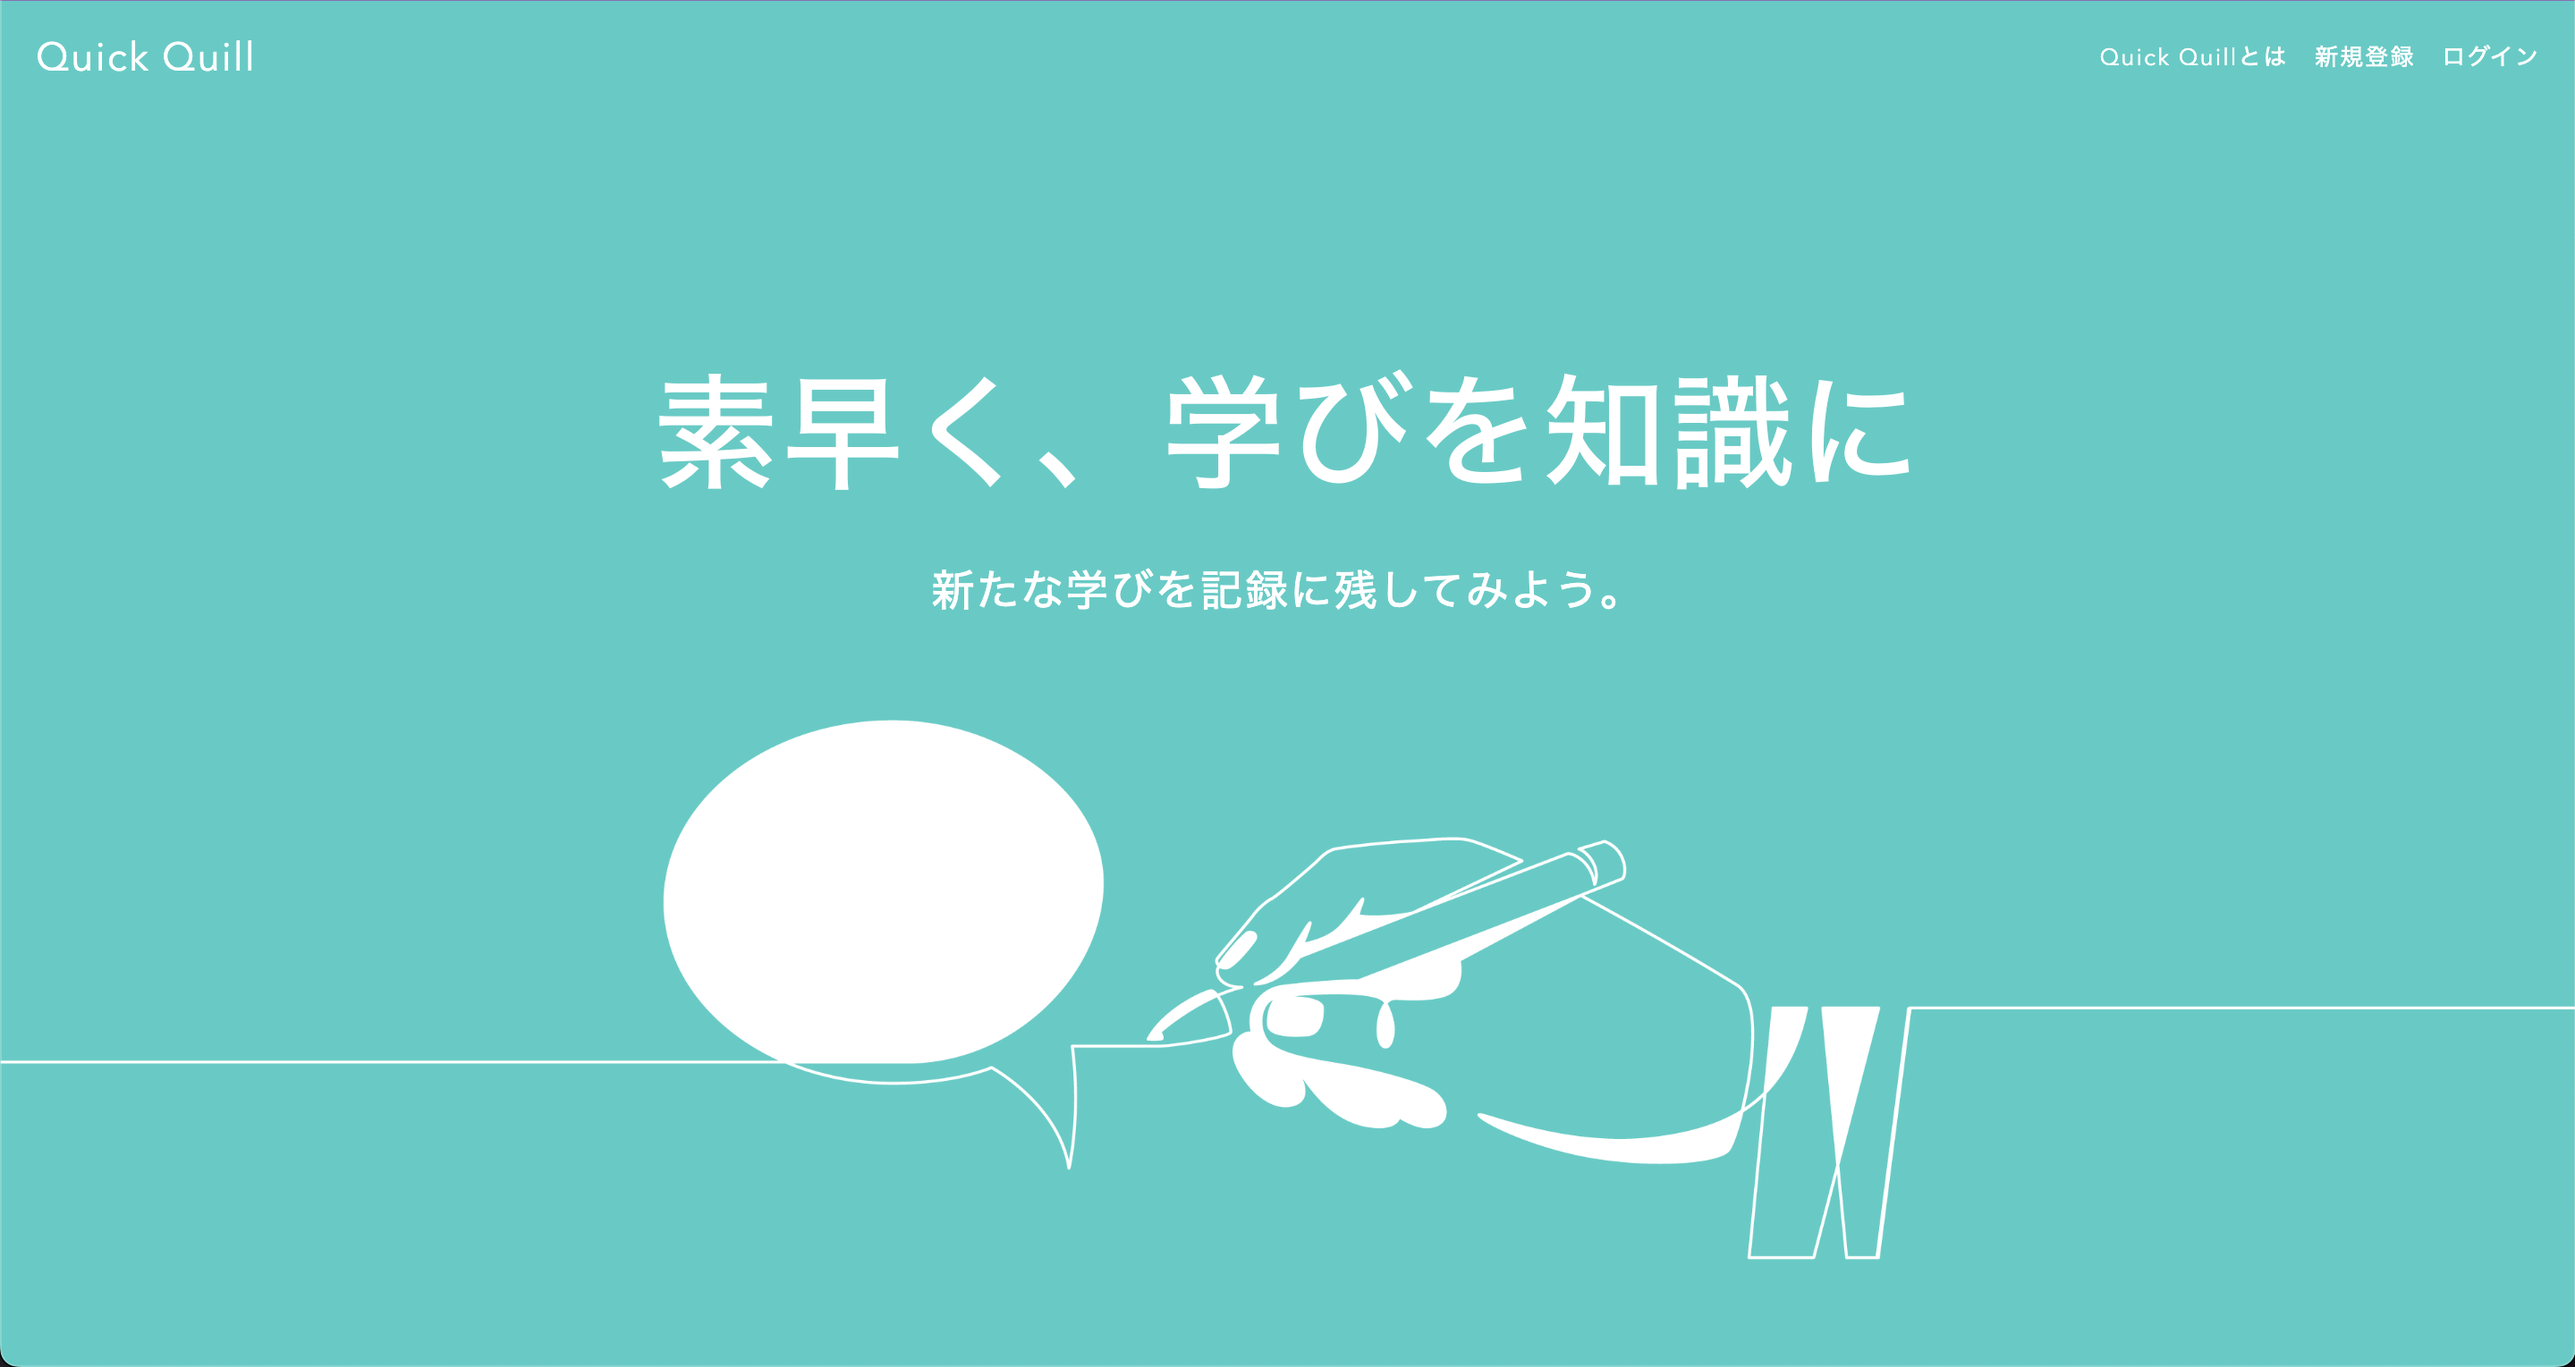
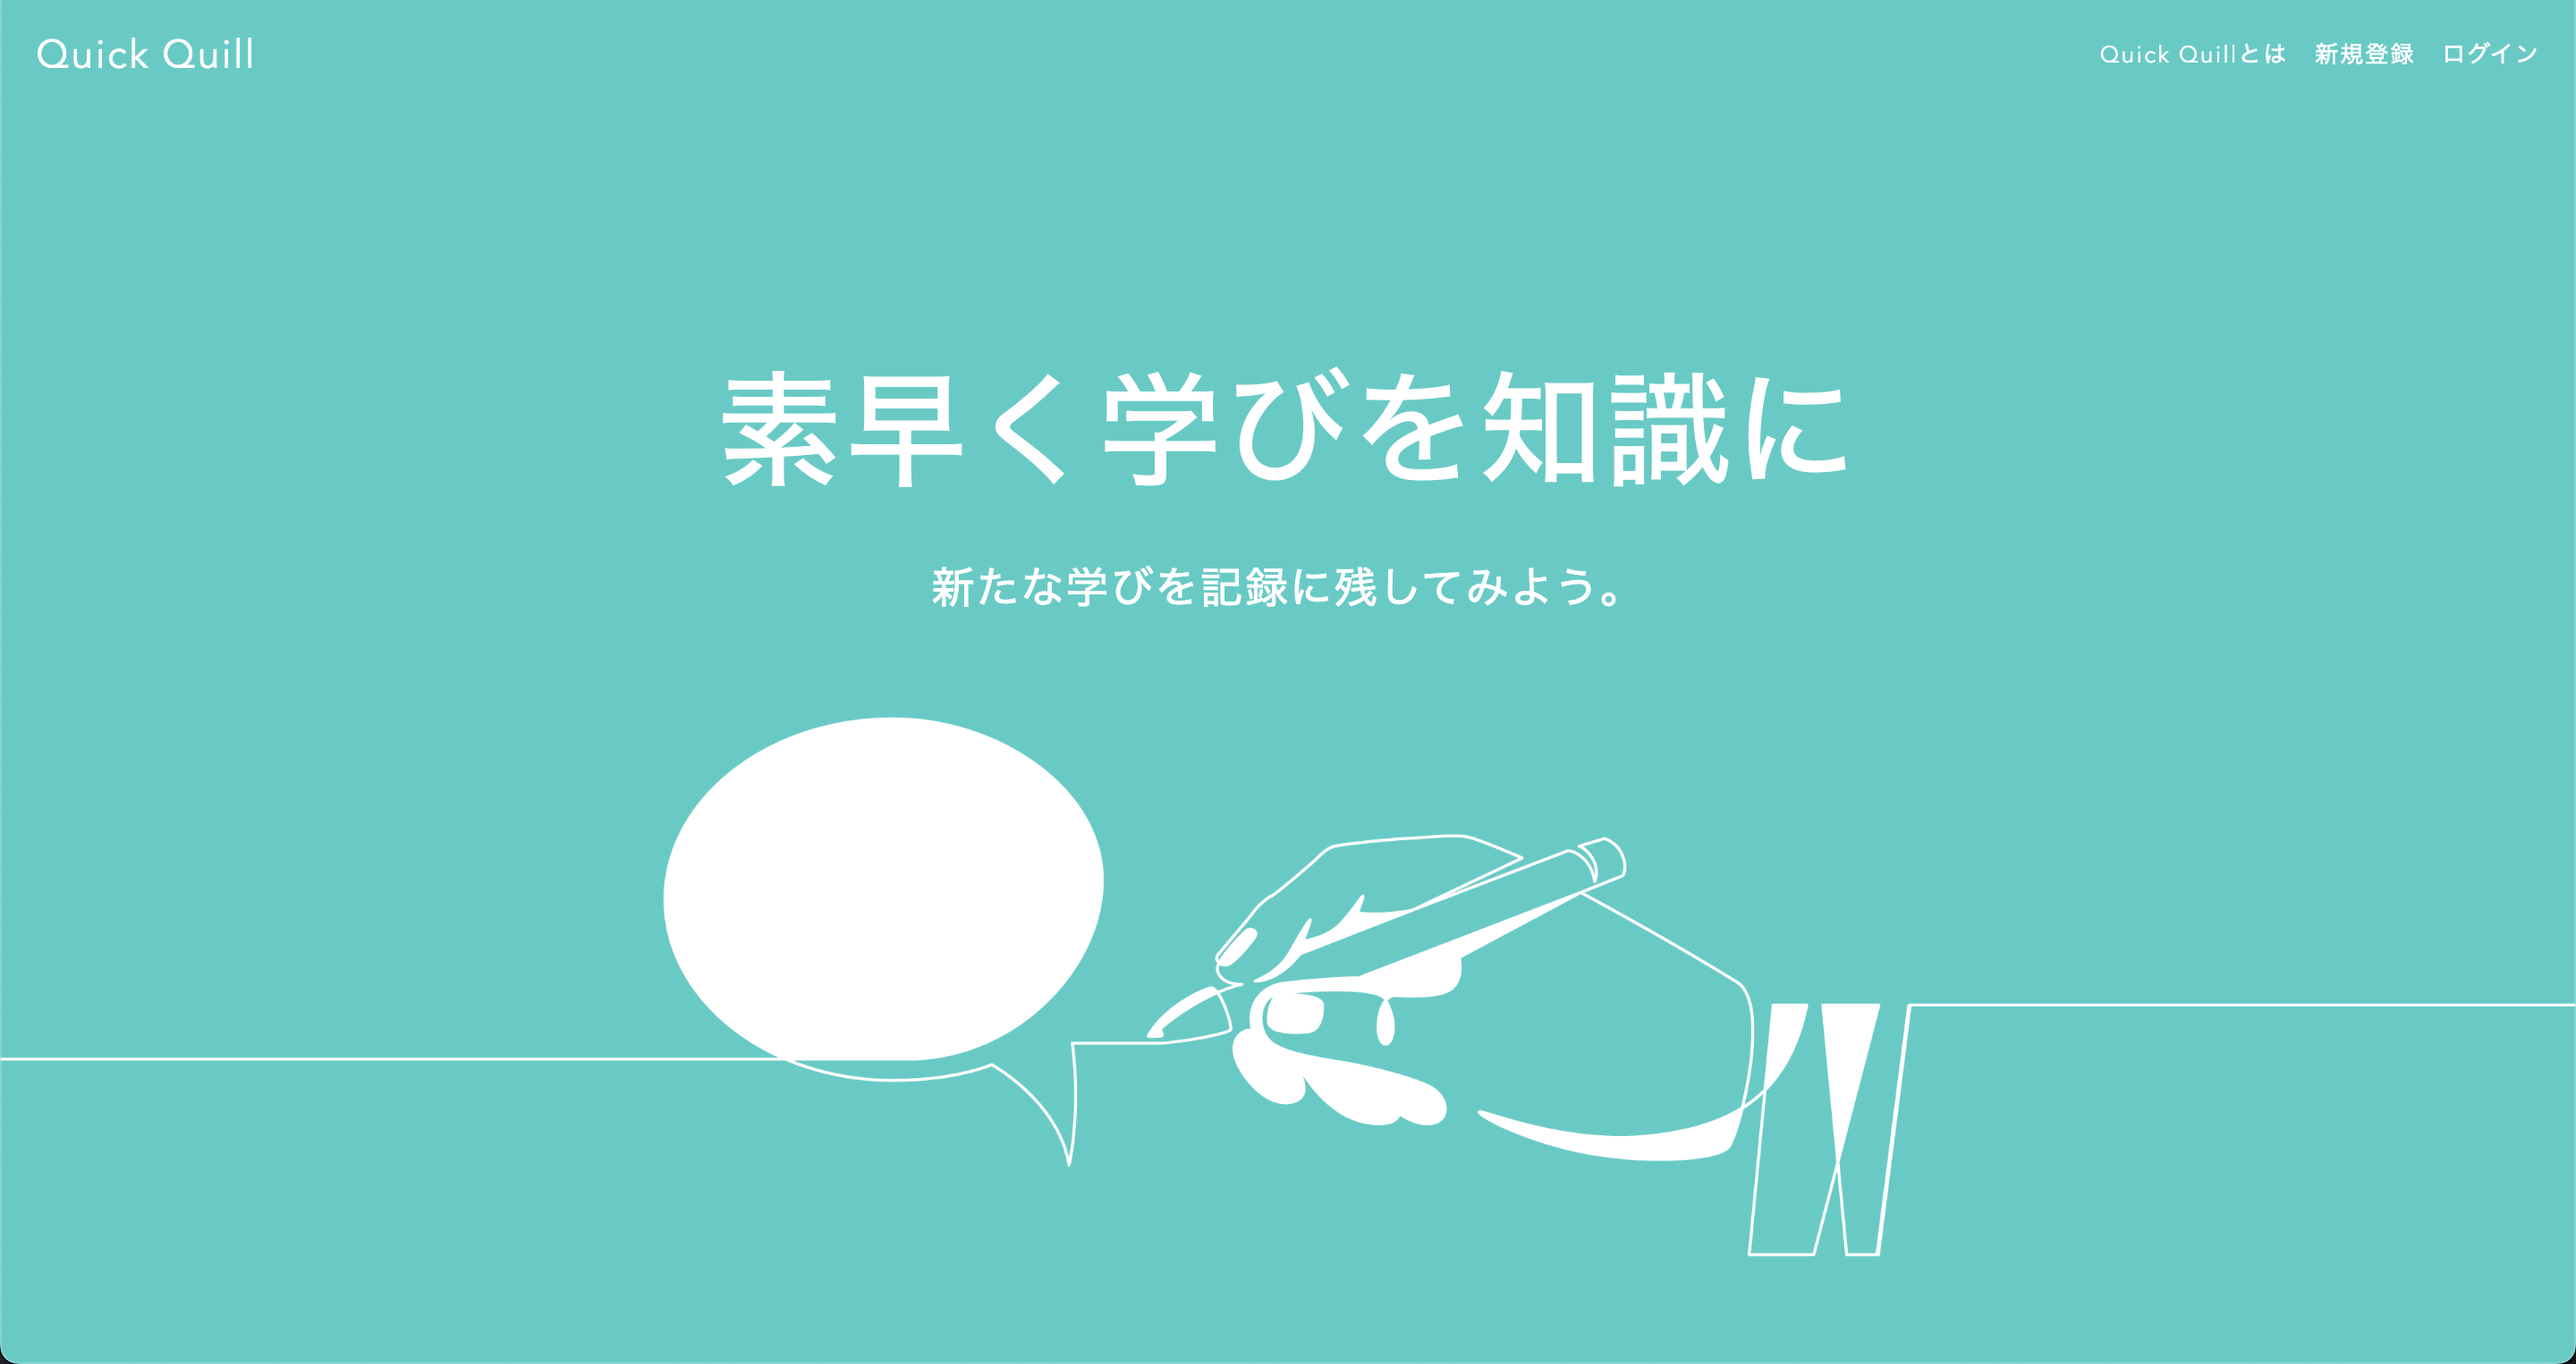
add: Add text to about.html.erb

diff --git a/app/assets/stylesheets/home.scss b/app/assets/stylesheets/home.scss
@@ -158,12 +158,12 @@ header {
 }
 
 .left-column {
-  width: 50%;
+  width: 70%;
   padding: 10px;
 }
 
 .right-column {
-  width: 50%;
+  width: 30%;
   padding: 10px;
 }
 

diff --git a/README.md b/README.md
@@ -2,7 +2,7 @@
 ![](https://img.shields.io/badge/Ruby-v3.1.4-red)
 ![](https://img.shields.io/badge/Rails-v7.0.4.3-red)
 ## サービス概要 :
-「素早く」、「わかりやすく」、「リファレンスを記録に残せる」を一つにまとめたノートアプリです。
+このアプリは**「素早く学びを知識に」**をコンセプトにしたノートアプリです。
 
 ## ビュー :
 <img src="app/assets/images/quick-quill-home-image.png">
@@ -11,12 +11,12 @@
 [Quick Quill](https://quick-quill.herokuapp.com/)
 
 ## ユーザーが抱える課題 :
-- 見出しなどのMarkdown記法を使ってノートに記述したい。
+- 見やすいノートを制作したい。
 - リファレンスをしっかり残して、ノート、メモを取りたい。
 
 ## アプリの機能 :
-簡単にMarkdown記法を用いて、見出し機能などのマークアップでわかりやすいノートを作成する事が出来ます。<br>
-またノートにまとめる際に、簡単にリファレンスも一緒に記録に残す事が出来ます。
+簡単にMarkdown記法を用いて、見出し機能などのマークアップでわかりやすいノートを作成することが出来ます。<br>
+またノートにまとめる際に、簡単にリファレンスも一緒に記録に残すことが出来ます。
 
 ## 使用技術 :
 ### フロントエンド
